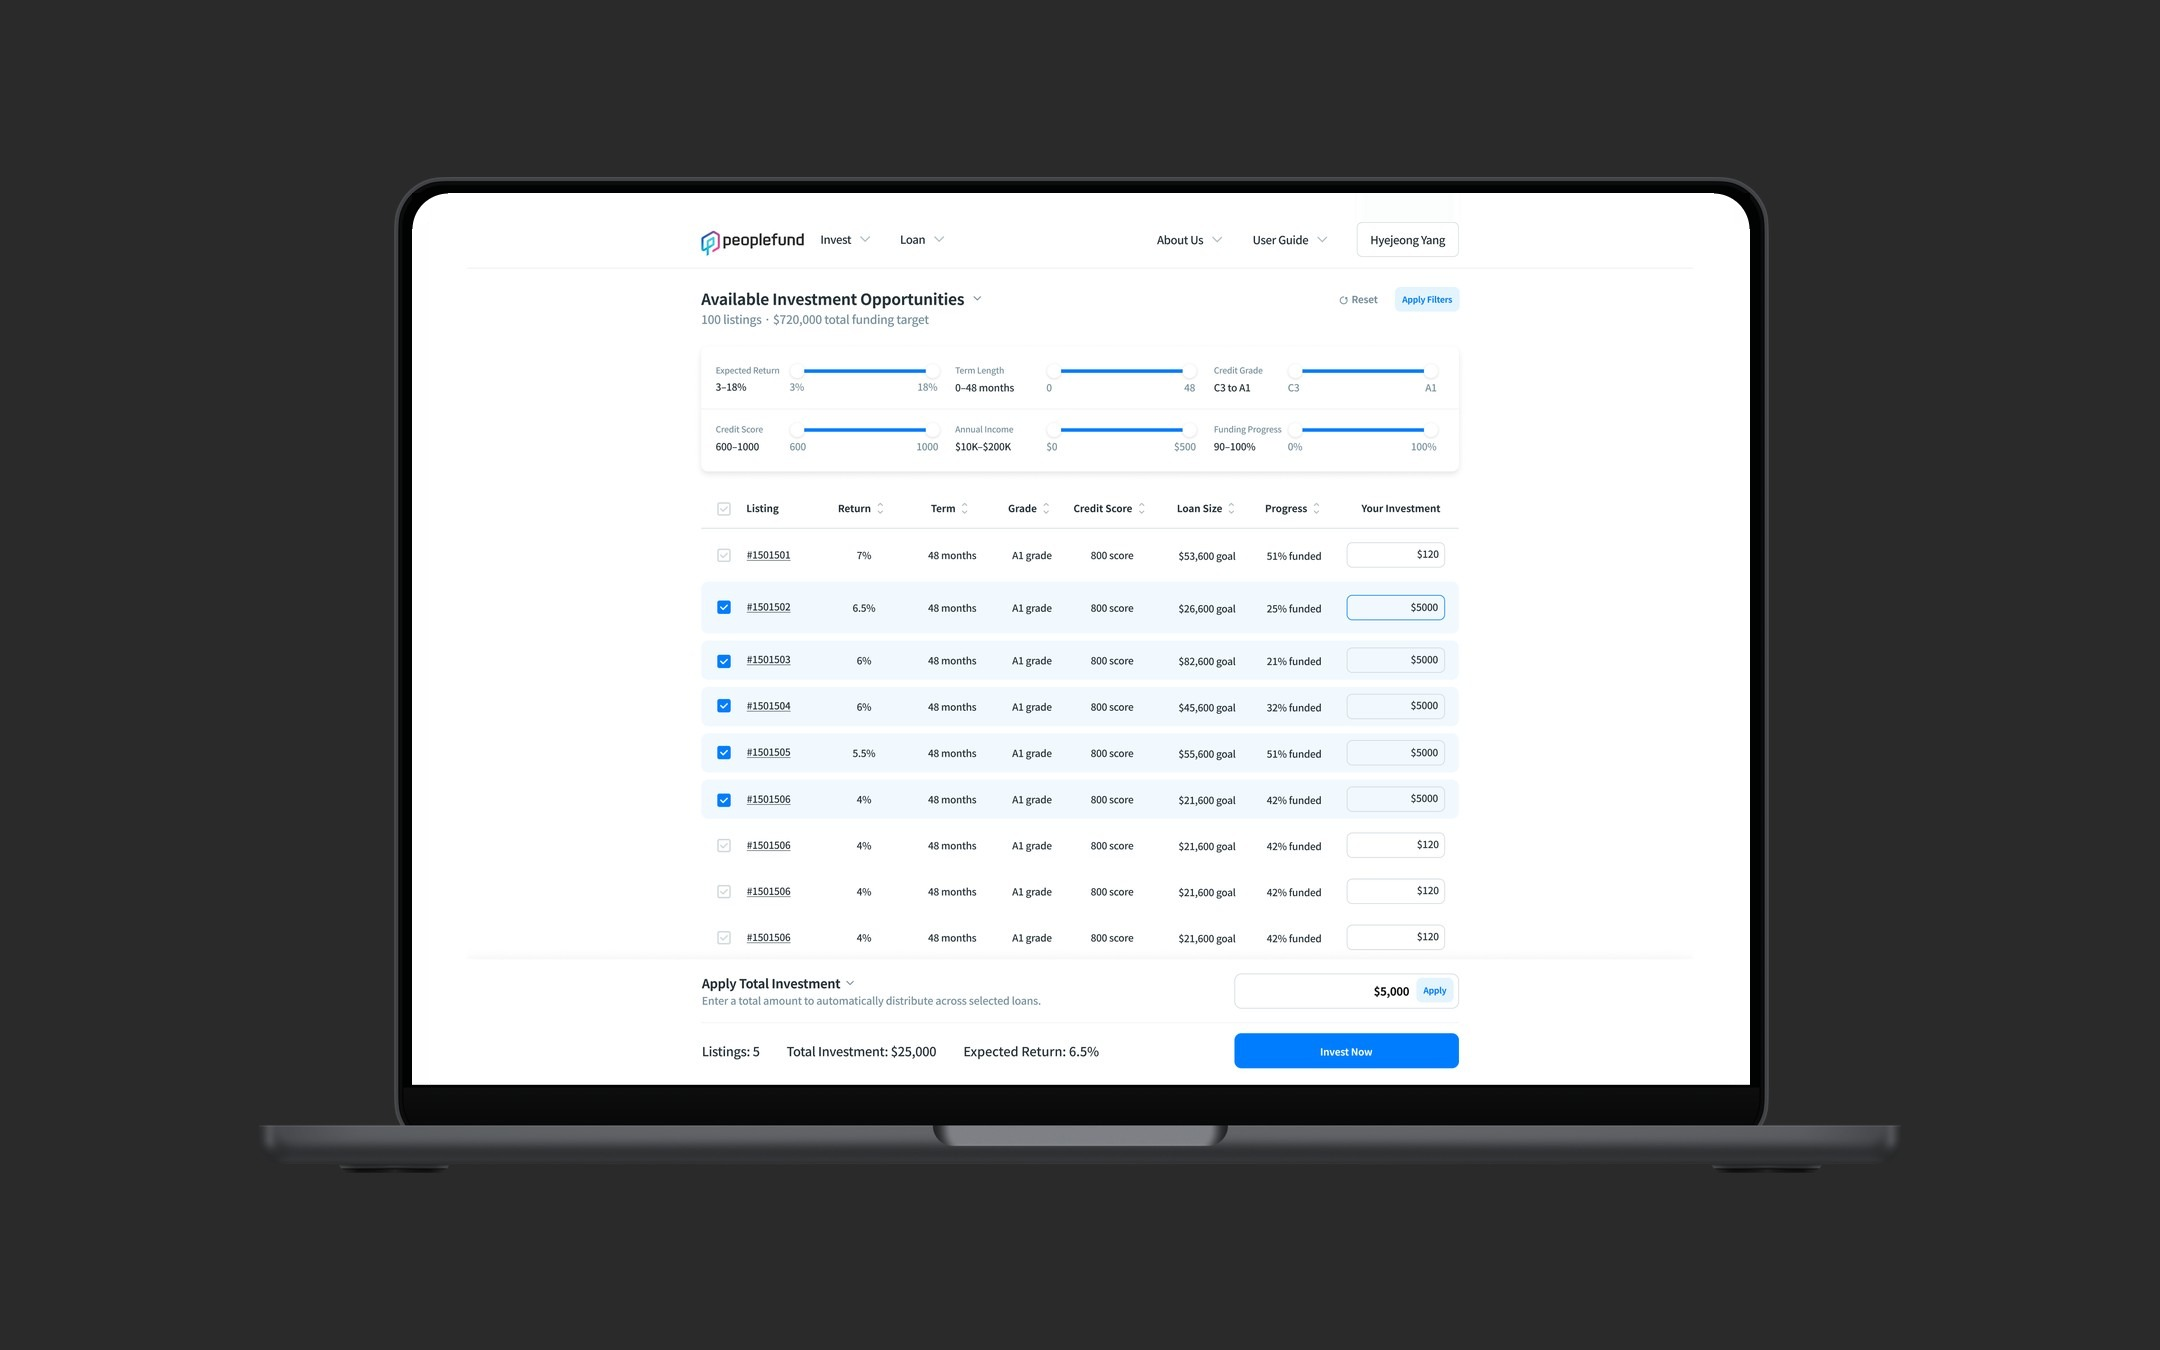
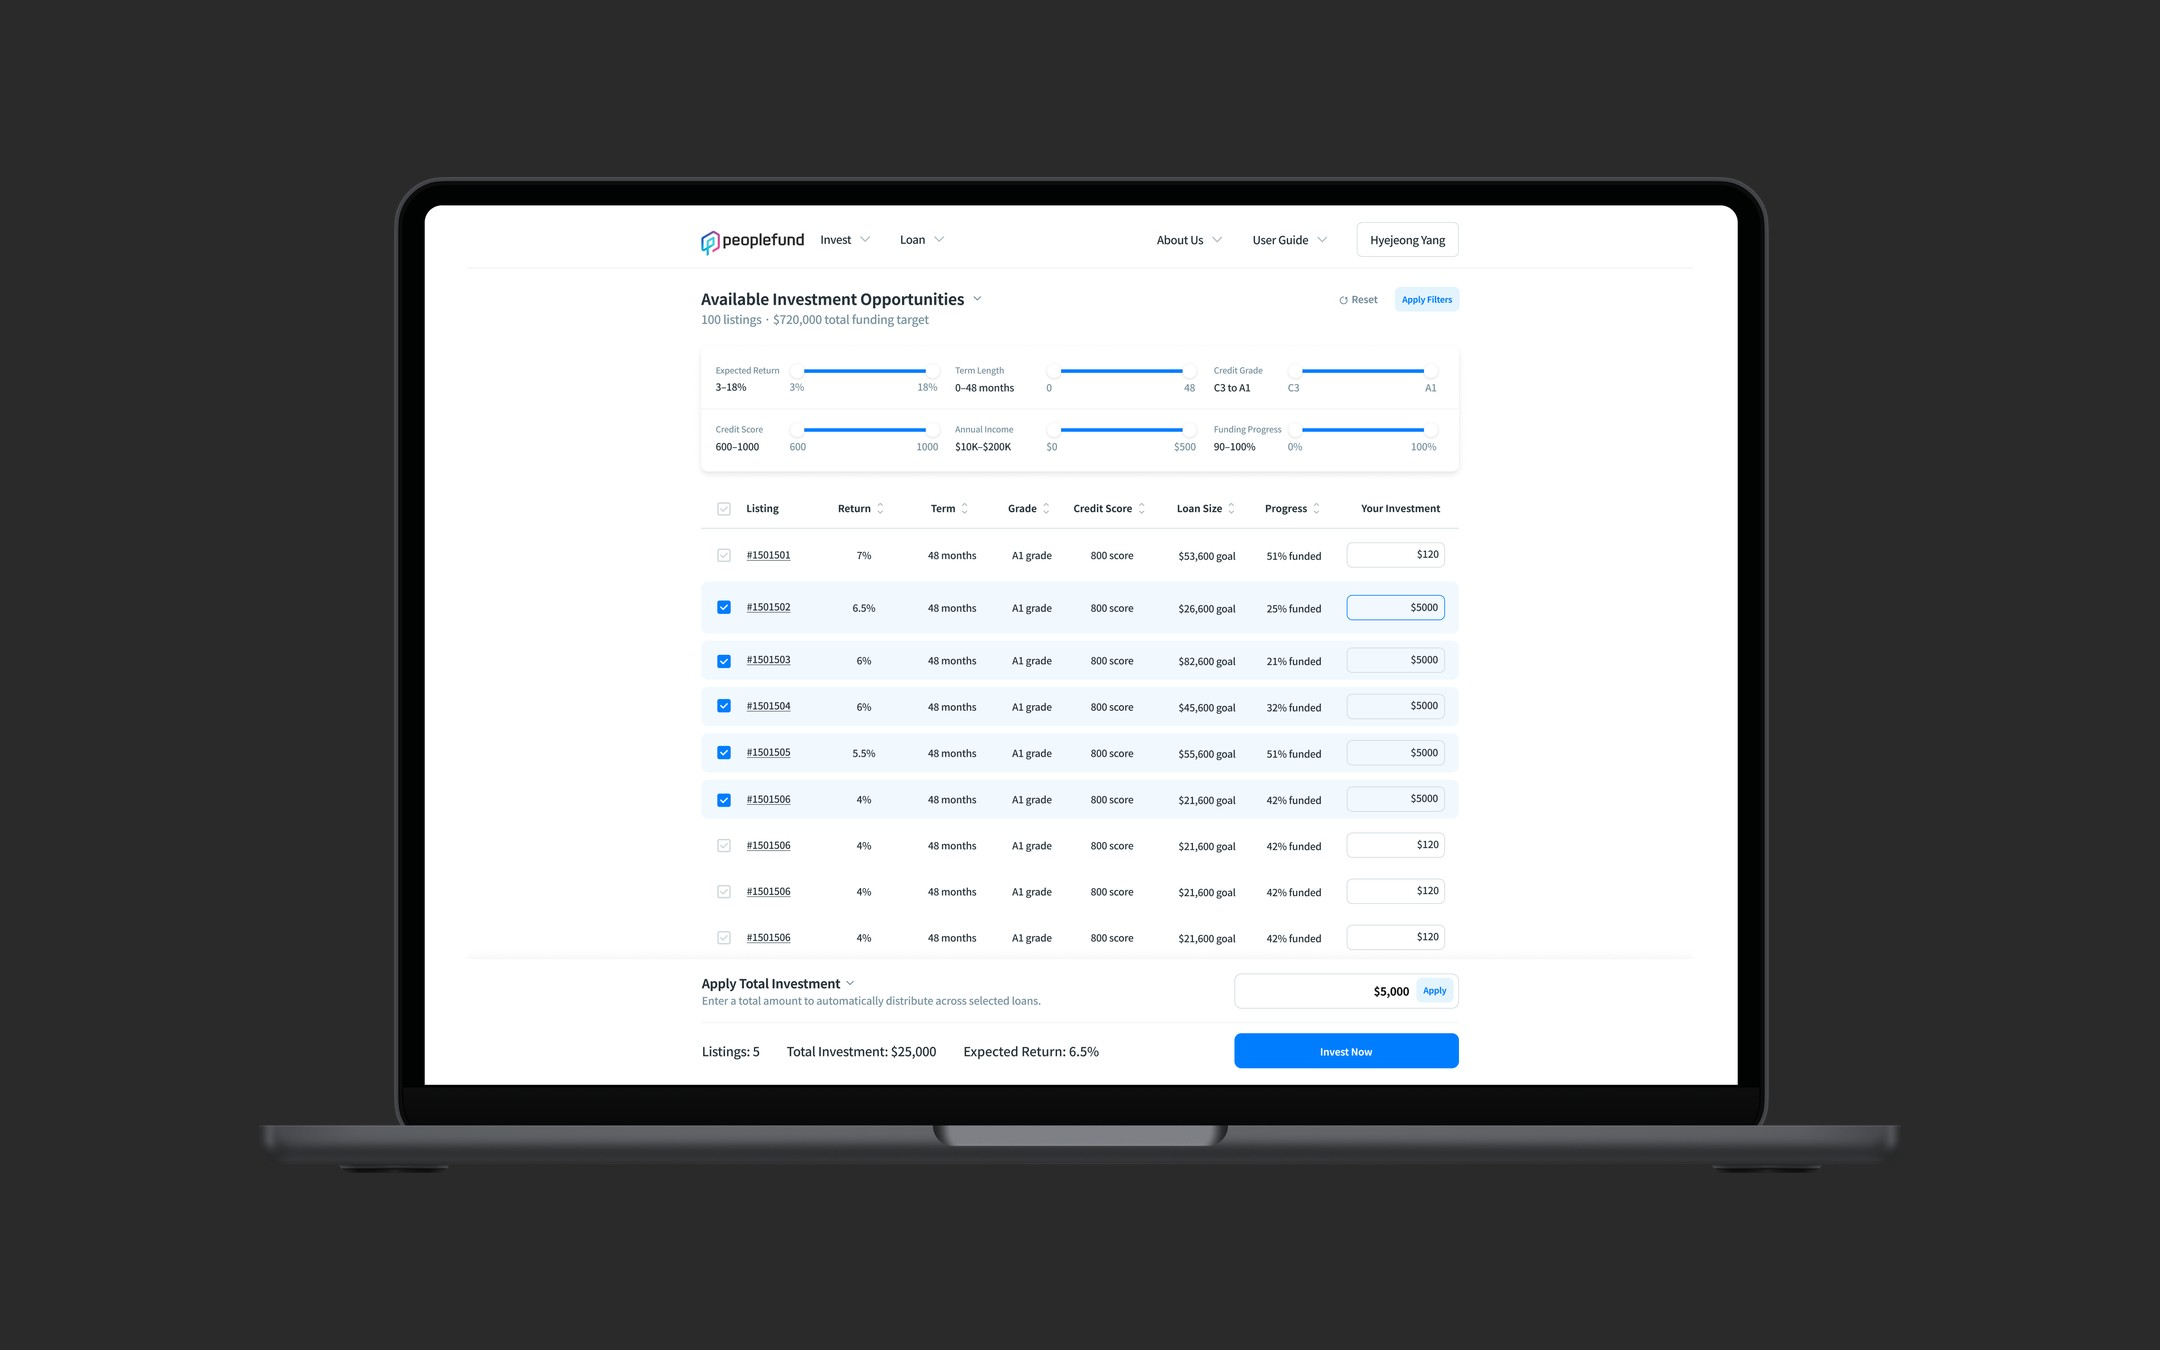
Orbit Clock feed thumbnail: new tilted wrist photo on #EAEAEA, clock warped onto the watch glass; case page cover back to the plain clock; Unsecured Loan mock back to the earlier bezel
Claude-Session: https://claude.ai/code/session_011tTqiRGzWxWSzHRiV37apW

Changed region(s): [[0.1861, 0.1244, 0.8065, 0.8089], [0.8065, 0.1556, 0.8375, 0.7778]]

diff --git a/clock-motion.html b/clock-motion.html
@@ -9,7 +9,7 @@
 html,body{margin:0;height:100%;overflow:hidden;background:#EAEAEA}
 :root[data-theme="dark"] body,:root[data-theme="dark"]{background:#2A2A2A}
 canvas{display:block}
-html.watch,html.watch body{background:#000!important}html.pn,html.pn body{background:#F2F2F2}html.pn[data-theme="dark"],html.pn[data-theme="dark"] body{background:#161616}
+html.watch,html.watch body{background:#000!important}html.wrist,html.wrist body{background:#EAEAEA url(case/clock/wrist.jpg) center/cover no-repeat!important}html.wrist body{background:none!important}html.pn,html.pn body{background:#F2F2F2}html.pn[data-theme="dark"],html.pn[data-theme="dark"] body{background:#161616}
 </style>
 <script src="https://cdnjs.cloudflare.com/ajax/libs/p5.js/1.11.1/p5.min.js"></script>
 </head>
@@ -25,10 +25,12 @@ html.watch,html.watch body{background:#000!important}html.pn,html.pn body{backgr
 // ?ground=pn matches the case-study panel color instead of the feed's
 const GQ = new URLSearchParams(location.search).get('ground');
 // ?ground=watch is pure black, like a watch face
-// ?ground=wrist: the feed thumbnail. A photo of the watch on a wrist, with the clock running on its screen
+// ?ground=wrist: the feed thumbnail. A photo of a watch on a wrist (page background, like object-fit: cover)
+// with the clock canvas warped onto the tilted watch glass using a CSS perspective transform
 const WRIST = GQ === 'wrist';
-const WIMG = { w: 1400, h: 2100 }, WSCR = { x: 562, y: 809, w: 345, h: 419, r: 63 };   // screen area inside the photo
-let wristImg = { light: null, dark: null }, BOX = null;
+const WIMG = { w: 2000, h: 1333 }, WQUAD = [[834.2, 491.1], [1263.8, 362.5], [1426.8, 843.6], [1004.5, 983.1]];   // glass corners in the photo: TL, TR, BR, BL
+const WCAN = { w: 448, h: 520 };
+let BOX = null;
 const GROUND = GQ === 'watch' ? { light: [0, 0, 0], dark: [0, 0, 0] }
   : GQ === 'pn' ? { light: [242, 242, 242], dark: [22, 22, 22] }
   : { light: [234, 234, 234], dark: [42, 42, 42] };
@@ -76,7 +78,7 @@ class Ring {
 function setup() {
   createCanvas(windowWidth, windowHeight);
   pixelDensity(min(displayDensity(), 2));
-  if (WRIST) { wristImg.light = loadImage('case/clock/wrist-l.jpg'); wristImg.dark = loadImage('case/clock/wrist-d.jpg'); }   // 2x is sharp enough here and uses far less memory than 3x
+  if (WRIST) { resizeCanvas(WCAN.w, WCAN.h); placeOnGlass(); }   // 2x is sharp enough here and uses far less memory than 3x
   rings = [
     new Ring({ count: 12, unit: 'h', labelEvery: 1, labelFn: i => (i === 0 ? '12' : String(i)), textSize: 34, drumY: -165, drumR: 215, dialR: 270 }),
     new Ring({ count: 12, unit: 'h', tick: 14, drumY: -74, drumR: 195, dialR: 215 }),
@@ -89,7 +91,7 @@ function setup() {
 
 function draw() {
   const g = dark ? GROUND.dark : GROUND.light;
-  background(g[0], g[1], g[2]);
+  if (WRIST) clear(); else background(g[0], g[1], g[2]);
 
   // drum for a while, flatten into the dial, hold, then lift back up
   const t = (millis() % CYCLE) / CYCLE;
@@ -112,18 +114,7 @@ function draw() {
   const vals = FIXED.length === 3 && !isNaN(FIXED[0])
     ? { h: FIXED[0] % 12, m: FIXED[1], s: FIXED[2] }
     : { h: now.getHours() % 12, m: now.getMinutes(), s: now.getSeconds() };
-  if (WRIST) {
-    // the photo fills the card like object-fit: cover; the clock is clipped to the watch screen
-    const img = dark ? wristImg.dark : wristImg.light;
-    const k = max(width / WIMG.w, height / WIMG.h), ox = (width - WIMG.w * k) / 2, oy = (height - WIMG.h * k) / 2;
-    if (img && img.width) image(img, ox, oy, WIMG.w * k, WIMG.h * k);
-    BOX = { x: ox + WSCR.x * k, y: oy + WSCR.y * k, w: WSCR.w * k, h: WSCR.h * k };
-    fit();
-    drawingContext.save(); drawingContext.beginPath(); drawingContext.roundRect(BOX.x, BOX.y, BOX.w, BOX.h, WSCR.r * k); drawingContext.clip();
-    noStroke(); fill(0); rect(BOX.x, BOX.y, BOX.w, BOX.h);
-  }
   for (const r of rings) { r.update(vals[r.unit]); r.display(vals[r.unit]); }
-  if (WRIST) drawingContext.restore();
   if (PARTS) drawPartLabels();
 }
 
@@ -190,7 +181,35 @@ function theme() {
   if (d !== dark) { dark = d; document.documentElement.dataset.theme = d ? 'dark' : 'light'; }
 }
 
-function windowResized() { resizeCanvas(windowWidth, windowHeight); }
+function windowResized() { if (WRIST) placeOnGlass(); else resizeCanvas(windowWidth, windowHeight); }
+
+// map the canvas rectangle onto the glass quad: solve the 3x3 homography and hand it to CSS as matrix3d
+function placeOnGlass() {
+  const el = document.querySelector('canvas'); if (!el) return;
+  const vw = window.innerWidth, vh = window.innerHeight;
+  const k = Math.max(vw / WIMG.w, vh / WIMG.h), ox = (vw - WIMG.w * k) / 2, oy = (vh - WIMG.h * k) / 2;
+  const q = WQUAD.map(([x, y]) => [ox + x * k, oy + y * k]);
+  const w = WCAN.w, h = WCAN.h, src = [[0, 0], [w, 0], [w, h], [0, h]];
+  const A = [], B = [];
+  for (let i = 0; i < 4; i++) {
+    const [x, y] = src[i], [u, v] = q[i];
+    A.push([x, y, 1, 0, 0, 0, -u * x, -u * y]); B.push(u);
+    A.push([0, 0, 0, x, y, 1, -v * x, -v * y]); B.push(v);
+  }
+  const m = solve8(A, B);   // a b c d e f g h  (i = 1)
+  el.style.position = 'absolute'; el.style.left = '0'; el.style.top = '0';
+  el.style.transformOrigin = '0 0'; el.style.borderRadius = '19% / 16%';
+  el.style.transform = `matrix3d(${m[0]},${m[3]},0,${m[6]},${m[1]},${m[4]},0,${m[7]},0,0,1,0,${m[2]},${m[5]},0,1)`;
+}
+function solve8(A, B) {   // small Gaussian elimination
+  const n = 8, M = A.map((r, i) => [...r, B[i]]);
+  for (let c = 0; c < n; c++) {
+    let p = c; for (let r = c + 1; r < n; r++) if (Math.abs(M[r][c]) > Math.abs(M[p][c])) p = r;
+    [M[c], M[p]] = [M[p], M[c]];
+    for (let r = 0; r < n; r++) if (r !== c) { const f = M[r][c] / M[c][c]; for (let k = c; k <= n; k++) M[r][k] -= f * M[c][k]; }
+  }
+  return M.map((r, i) => r[n] / r[i]);
+}
 </script>
 </body>
 </html>

diff --git a/index.html b/index.html
@@ -1894,7 +1894,7 @@ const THUMB={"unsecured-loan":"unsecured-loan-3"};
 const pic=s=>LIFE.has(s)?`shots/${s}.jpg`:`mock/${THUMB[s]||s}.jpg`;
 /* mockups have a dark-card twin; photos keep their own light */
 const DARKMOCK=new Set(["atmos","clock","grants","unsecured-loan","pf-design-system","video-conferencing"]);
-const DARKSHOT=new Set(["clock"]);
+const DARKSHOT=new Set([]);
 const picD=s=>DARKSHOT.has(s)?`shots-dark/${s}.jpg`:DARKMOCK.has(s)&&!LIFE.has(s)?`mock-dark/${THUMB[s]||s}.jpg`:pic(s);
 /* live frames only run while they're on screen.
    Each animated iframe starts with data-src; when it comes near the viewport it gets its src,
@@ -1909,7 +1909,9 @@ function lfOff(f,watch){clearTimeout(f._lfT);lfIO.unobserve(f);if(!f._lfOn){if(w
 function lazyFrames(scope){scope.querySelectorAll("iframe[data-src]").forEach(f=>lfIO.observe(f))}
 function feedFrames(on){$$("#feed iframe[data-src]").forEach(f=>{if(on){lfIO.unobserve(f);lfIO.observe(f)}else lfOff(f,false)})}
 /* live motion thumbnails (iframes over the still image) */
-const MOTION={"atmos":"atmos-motion.html","clock":"clock-motion.html?ground=wrist&pad=0.07"};
+const MOTION={"atmos":"atmos-motion.html","clock":"clock-motion.html"};
+// the home feed can use a different motion than the case page cover
+const FEED_MOTION={"clock":"clock-motion.html?ground=wrist&pad=0.16"};
 /* where to keep the subject when a photo is cropped to a landscape card on phones */
 const FOCUS={"homepage":"55% 46%","mortgage":"52% 40%","stock-trading":"45% 32%","tech-conference":"60% 50%"};
 $("#feed").innerHTML=ITEMS.map((it,i)=>{
@@ -1917,7 +1919,7 @@ $("#feed").innerHTML=ITEMS.map((it,i)=>{
       <div class="media" data-label="Lof Archive"><img class="art" src="${A.img}" alt="">${veil(`<span>Lof</span><span>2019</span>`,"Before screens, leather. Twelve cases, purses and ink-on-leather pieces, cut, dyed and stitched by hand.",null,A.fog,["2019","Handmade leather","12 objects"])}</div>
       <span class="cap"><span class="t">Lof Archive</span><span class="y num">${ARCHIVE.length} objects · 2019</span></span></button></li>`}
   const p=it.p, A=art(i);return `<li class="${FULL.has(p.slug)?'full ':WIDE.has(p.slug)?'wide ':''}${LIFE.has(p.slug)?'ph':'mk'}" style="--fp:${FOCUS[p.slug]||'50% 50%'}"><a class="tile" href="#${p.slug}" data-case="${p.slug}">
-      <div class="media" data-label="${esc(p.title)}"><img class="art" src="${pic(p.slug)}" data-l="${pic(p.slug)}" data-d="${picD(p.slug)}" data-fb="${i}" alt="">${MOTION[p.slug]&&!reduce?`<iframe class="am" data-src="${MOTION[p.slug]}" title="${esc(p.title)} motion preview" tabindex="-1" aria-hidden="true"></iframe>`:''}${veilCase(p,pic(p.slug)).replace('<img class="fog"',`<img class="fog" data-l="${pic(p.slug)}" data-d="${picD(p.slug)}"`)}</div>
+      <div class="media" data-label="${esc(p.title)}"><img class="art" src="${pic(p.slug)}" data-l="${pic(p.slug)}" data-d="${picD(p.slug)}" data-fb="${i}" alt="">${MOTION[p.slug]&&!reduce?`<iframe class="am" data-src="${FEED_MOTION[p.slug]||MOTION[p.slug]}" title="${esc(p.title)} motion preview" tabindex="-1" aria-hidden="true"></iframe>`:''}${veilCase(p,pic(p.slug)).replace('<img class="fog"',`<img class="fog" data-l="${pic(p.slug)}" data-d="${picD(p.slug)}"`)}</div>
       <span class="cap"><span class="t">${p.title}</span><span class="y num">${p.client} · ${p.year}</span><span class="l">${LINE[p.slug]||p.sum}</span></span></a></li>`}).join("");
 
 lazyFrames($("#feed"));
